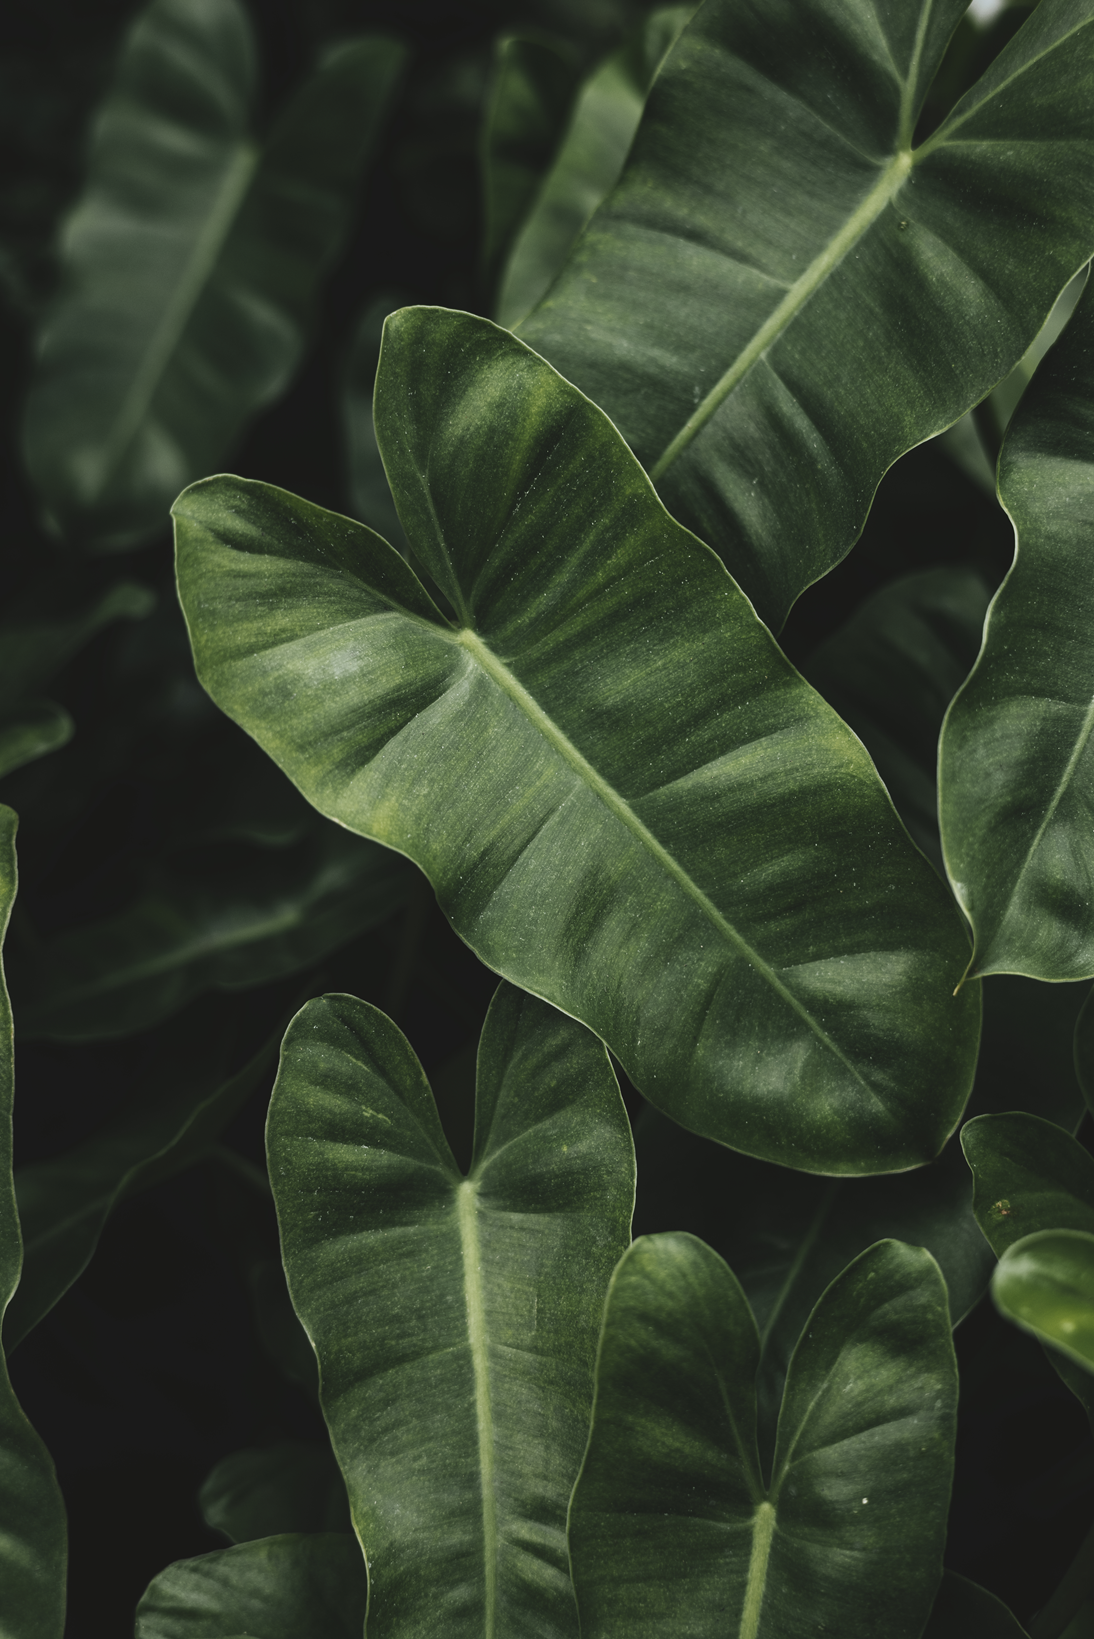
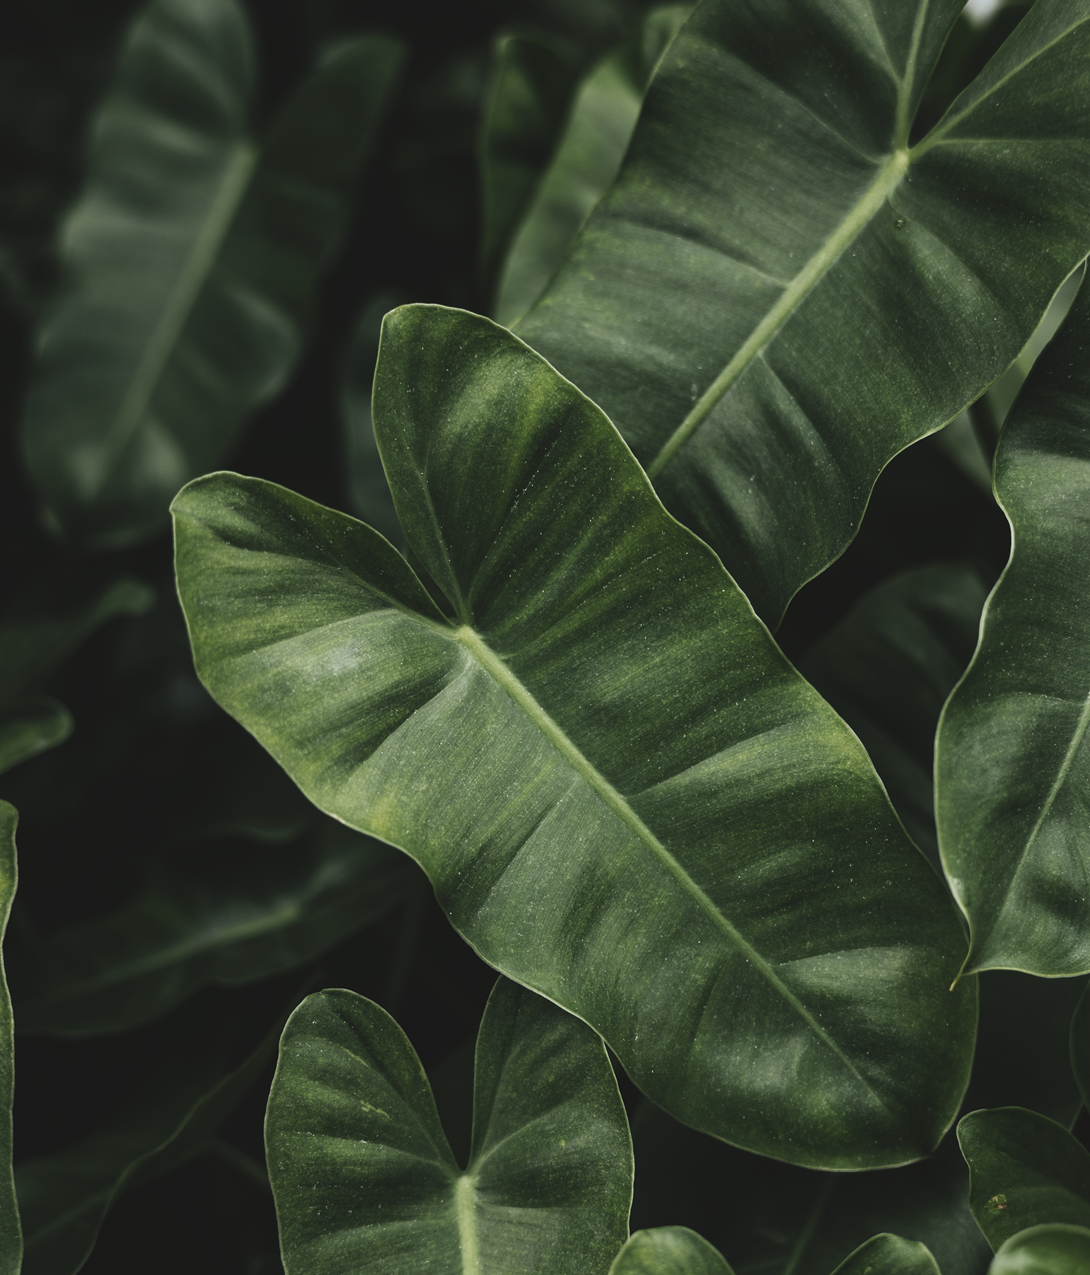
media query anh

diff --git a/client/src/pages/Homepage.css b/client/src/pages/Homepage.css
@@ -367,13 +367,24 @@ a:active {
   a:active {
     color: #076434;
   }
+
+  #contact-form {
+    width: 70%;
+    height: 40%;
+    display: flex;
+    flex-direction: row;
+    justify-content: center;
+    align-items: center;
+    margin-left: 15%;
+    margin-top: 3rem;
+  }
 }
 
 /*Page1*/
 .background-page1 {
   width: 100vw;
   height: 900px;
-  background-image: url("../images/plant4.png");
+  background-image: url("../images/plant3.jpg");
   background-repeat: no-repeat;
   background-size: 100%;
   /* background-image: url("../images/succulents.png");
@@ -425,15 +436,6 @@ a:hover {
 }
 
 @media (max-width: 768px) {
-  #navbar-menu {
-    padding-top: 1rem;
-  }
-
-  #navbar-icon img {
-    width: 60px;
-    height: 60px;
-  }
-
   .aboutUs-first {
     background-size: 20%;
     padding-bottom: 7rem;
@@ -473,6 +475,83 @@ a:hover {
   .content-page1 button {
     width: 100%;
   }
+  /* DROPDOWN WITH LOGIN*/
+  #dropdown-small-1,
+  #dropdown-small-2,
+  #dropdown-small-3,
+  #dropdown-small-4,
+  #dropdown-small-5 {
+    color: #076434;
+  }
+  .dropdown-item {
+    border-bottom: 1px solid rgb(137, 135, 135);
+    min-height: 40px;
+  }
+  .dropdown-item:hover {
+    background-color: #a1c196;
+  }
+  #dropdown-small-5 i {
+    padding-left: 1rem;
+  }
+
+  .dropdown-toggle {
+    width: 100px;
+    height: 40px;
+  }
+
+  /*NAVBAR MEDIA QUERY */
+
+  #navbar-menu ul {
+    display: flex;
+    flex-direction: row;
+    justify-content: space-between;
+    align-items: center;
+    padding-top: 2rem;
+    font-family: "Poppins", sans-serif;
+    font-weight: bold;
+    color: #076434;
+    flex-wrap: wrap;
+  }
+  #navbar-menu li {
+    font-size: 1rem;
+    padding-left: 0.5rem;
+    padding-bottom: 0.5rem;
+    padding-top: 1rem;
+  }
+  #navbar-menu a:visited,
+  #navbar-menu a:link,
+  #navbar-menu a:hover,
+  #navbar-menu a:active {
+    color: #076434;
+  }
+
+  #navbar-icon img {
+    width: 60px;
+    height: 60px;
+  }
+  #navbar-container {
+    width: auto;
+  }
+  #user-logo {
+    color: #076434;
+    padding-top: 1rem;
+  }
+
+  /*Page1 with query */
+  .background-page1 {
+    width: 100vw;
+    height: 500px;
+    background-image: url("../images/plant3.jpg");
+    background-repeat: no-repeat;
+    background-size: 100%;
+    /* background-image: url("../images/succulents.png");
+    background-size: 60%;
+    background-repeat: no-repeat;
+    background-position: 100% 100%;
+    width: 100vw;
+    min-height: 800px;
+    background-color: #d5ebe0; */
+  }
 }
 
 /* DROPDOWN WITH LOGIN*/
@@ -485,6 +564,7 @@ a:hover {
 }
 .dropdown-item {
   border-bottom: 1px solid rgb(137, 135, 135);
+  min-height: 40px;
 }
 .dropdown-item:hover {
   background-color: #a1c196;
@@ -495,5 +575,6 @@ a:hover {
 
 .dropdown-toggle {
   width: auto;
+  max-width: 200px;
   height: 40px;
 }

diff --git a/client/src/pages/MyDiary.css b/client/src/pages/MyDiary.css
@@ -116,3 +116,123 @@
   margin-top: 3rem;
   margin-left: 2rem;
 }
+
+@media (max-width: 768px) {
+  #diary-complete {
+    display: flex;
+    flex-direction: column;
+    justify-content: space-between;
+    align-items: center;
+    height: auto;
+    margin-top: 2rem;
+    padding-top: 3rem;
+    background-color: #ddf5d9;
+  }
+
+  #diary-submit,
+  #diary-show {
+    display: flex;
+    flex-direction: column;
+    justify-content: space-between;
+    align-items: center;
+    width: 100vw;
+    height: auto;
+    margin-bottom: 2rem;
+  }
+  #diary-title,
+  #diary-content {
+    display: flex;
+    flex-direction: row;
+    justify-content: space-evenly;
+    align-items: flex-start;
+    width: auto;
+    height: auto;
+    padding-top: 3rem;
+  }
+  #diary-title label,
+  #diary-content label {
+    font-weight: bold;
+  }
+  #diary-title input {
+    width: 250px;
+    height: auto;
+    margin-left: 2rem;
+  }
+  #diary-content textarea {
+    width: 300px;
+    height: 200px;
+    text-align: left;
+    margin-left: 2rem;
+  }
+
+  #diary-submit button {
+    width: 100px;
+    height: 40px;
+    border: solid 1px #076434;
+    background-color: #076434;
+    border-radius: 40px;
+    color: aliceblue;
+    font-family: "Raleway", sans-serif;
+    font-weight: 900;
+    text-align: center;
+    margin-top: 3rem;
+  }
+
+  #diary-show {
+    display: flex;
+    flex-direction: column;
+    justify-content: space-evenly;
+    align-items: center;
+  }
+  #diary-text-box {
+    width: 60%;
+    min-height: 300px;
+    border: 1px solid black;
+    border-radius: 25px;
+    margin-top: 2rem;
+    display: flex;
+    flex-direction: column;
+    justify-content: space-evenly;
+    align-items: center;
+    background-color: #faf9f8;
+    padding: 2rem 2rem;
+  }
+  .diary-button,
+  #update-diary {
+    display: flex;
+    flex-direction: row;
+    justify-content: flex-end;
+    align-items: flex-end;
+  }
+  #diary-text2 {
+    display: flex;
+    flex-direction: column;
+    justify-content: space-between;
+    align-items: center;
+  }
+  #diary-text-box input {
+    width: 250px;
+    height: auto;
+    margin-bottom: 1rem;
+  }
+  #diary-text-box textarea {
+    width: 250px;
+    height: 200px;
+    text-align: left;
+    margin-left: 2rem;
+  }
+  .diary-button button,
+  #update-diary button {
+    width: 100px;
+    height: 40px;
+    border: solid 1px #076434;
+    background-color: #faf9f8;
+    border-radius: 40px;
+    color: #076434;
+    font-family: "Raleway", sans-serif;
+    font-weight: 900;
+    text-align: center;
+    margin-top: 3rem;
+    margin-left: 2rem;
+  }
+}

diff --git a/client/src/pages/MyPlantPage.jsx b/client/src/pages/MyPlantPage.jsx
@@ -16,9 +16,12 @@ const MyPlantPage = () => {
 
       const fetchSavedPlants = async () => {
         try {
-          const response = await axios.get("http://localhost:8000/plants", {
-            withCredentials: true,
-          });
+          const response = await axios.get(
+            "https://greendiary-server.onrender.com/plants",
+            {
+              withCredentials: true,
+            }
+          );
 
           const filteredSavedPlants = response.data.filter((plant) =>
             savedPlantIds.includes(plant._id)
